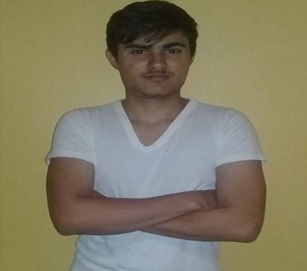
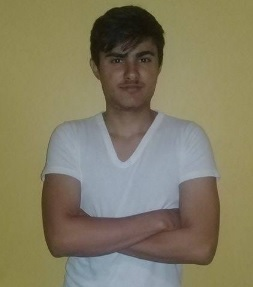
Modifique el tamaño de la foto de mi index, cambie la ruta de los archivos css de mi pagina de gustos y tambien le inserte codigo javascript, junto con su correspondiente carpeta que contiene los demas archivos javascript, le puse 2 botones uno que al seleccionarlo manda una alerta y otro que huye p

diff --git a/css/gustos.css b/css/gustos.css
@@ -1,0 +1,35 @@
+#titulogustos{padding-left:400px;  font-size: 5em; font-family:Times New Roman, Times, serif;  color:black;}
+#fondogustos1{background-color: rgb(205,214,183); height: 100px; width:100%;border-radius-bottom:5px; box-shadow: 0 0 10px; }
+#fondogustos2{background-color:  rgb(255,219,219); height: 100%; width: 100%; margin-top: 2px;}
+#centergustostexto{ padding-top:50px; padding-left: 300px; padding-right: 200px;  color:black; text-align: justify; font-family: monospace, courier, Arial, sans-serif; }
+#centergustosfoto{ padding-left: 400px; border-radius-bottom:5px; }
+#pregunta{padding-top:40px; padding-left: 550px; }
+div.c2 {position:absolute; left:580px; top:690px; width:50px; height:50px;}
+    div.c1 {position:absolute; left:650px; top:690px; width:50px; height:50px;}
+
+ul {
+position: fixed;
+	margin-top: 2px;
+    border-style: solid;
+    border-width: 2px;
+    border-color: black;
+    list-style-type: none;
+    margin-left: 30px;
+    padding: 0;
+    width: 200px;
+     border-radius-bottom:5px; box-shadow: 0 0 10px;
+    background-color:rgb(133,189,224);
+}
+
+li a {
+    display: block;
+    color: #000;
+    padding: 30px 60px;
+    text-decoration: none;
+}
+
+/* Change the link color on hover */
+li a:hover {
+    background-color: #555;
+    color: white;
+}

diff --git a/gustos.html b/gustos.html
@@ -4,7 +4,10 @@
 
 <title> Lo que me gusta </title>
 
-<link rel="stylesheet" type="text/css" href="./gustos.css">
+<link rel="stylesheet" type="text/css" href="./css./gustos.css">
+<script language="JavaScript" SRC="js./gustos.js"></script>
+
+
 
 <div id="fondogustos1">
 <div id="titulogustos">
@@ -32,7 +35,7 @@
 
 
 
- </div>
+ 
 
 
 
@@ -45,8 +48,26 @@
 
 <img src="./img/gustos.jpg">
 
+
+
 </div>
 
+<div id="pregunta">Tengo Buenos Gustos? </div>
+
+    <div id="N" class="c1">
+      <form>
+
+        <input type="button" value="NO" onmouseover="t()" />
+      </form>
+    </div>
+    <div id="Y" class="c2">
+      <form>
+        <input type="button" value="SI" onclick="al()" />
+      </form>
+    </div>
+
+
+</div>
 
 
 

diff --git a/js/gustos.js b/js/gustos.js
@@ -1,0 +1,22 @@
+var flag = 1;
+    function t() {
+    if(flag == 1) {
+    N.style.top = "600px";
+    N.style.left = "900px";
+    }
+    if(flag == 2) {
+    N.style.top = "700px";
+    N.style.left = "1000px";
+    }
+    if(flag == 3) {
+    N.style.top = "700px";
+    N.style.left = "800px";
+    }
+    flag = flag + 1;
+    if(flag == 4) {
+    flag = 1;
+    }
+    }
+    function al() {
+    alert("Correcto!");
+    }
